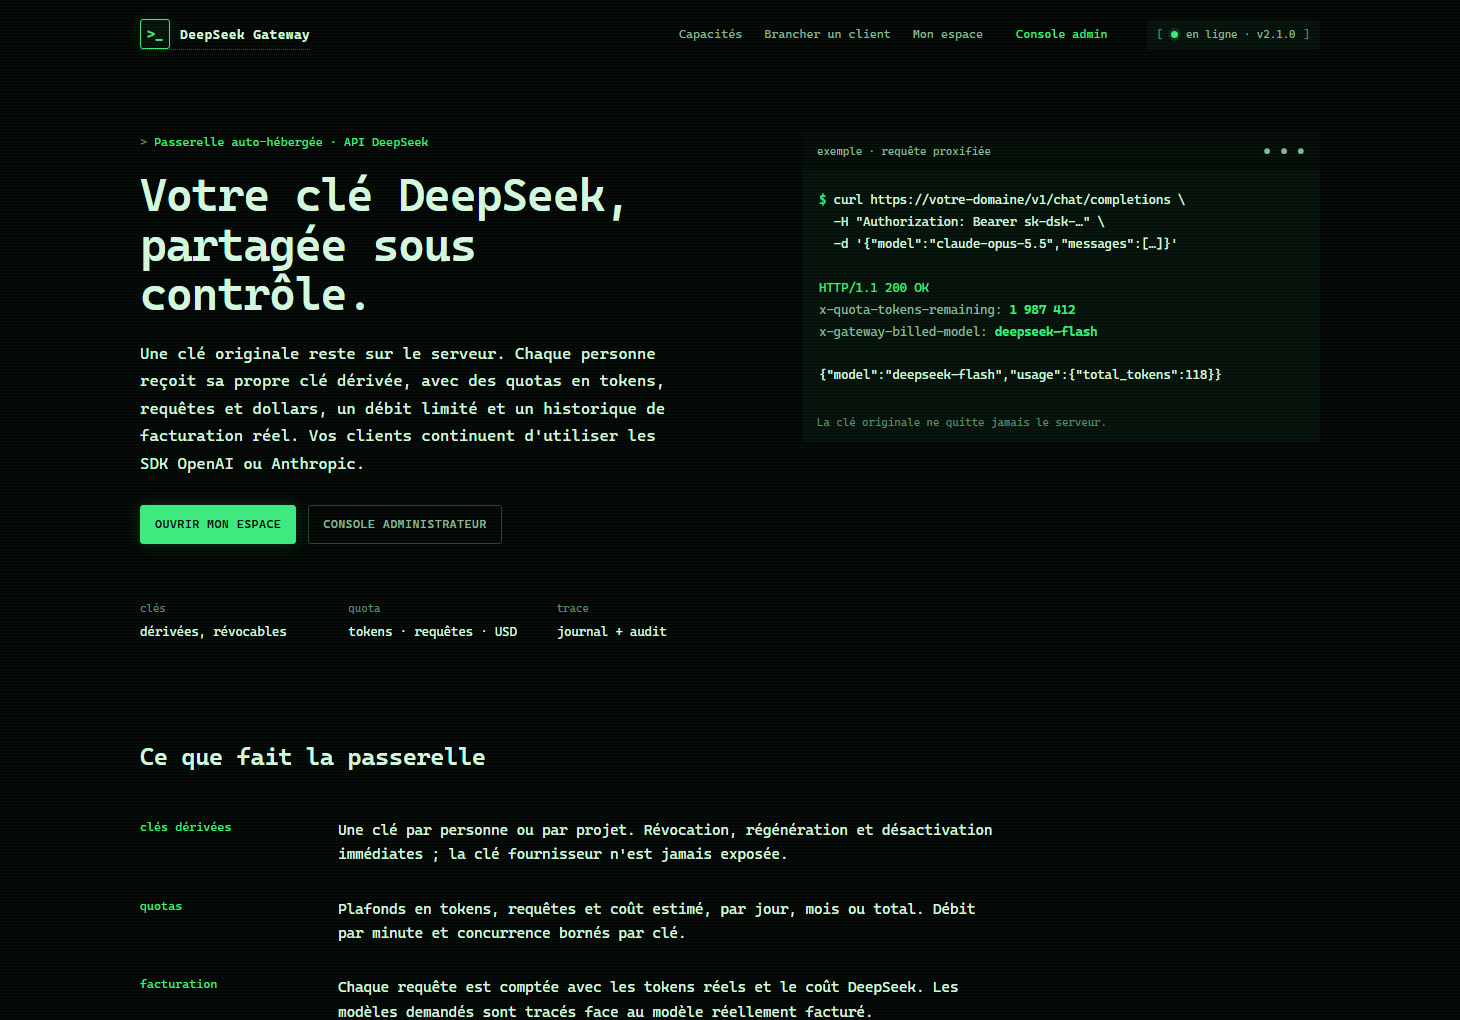
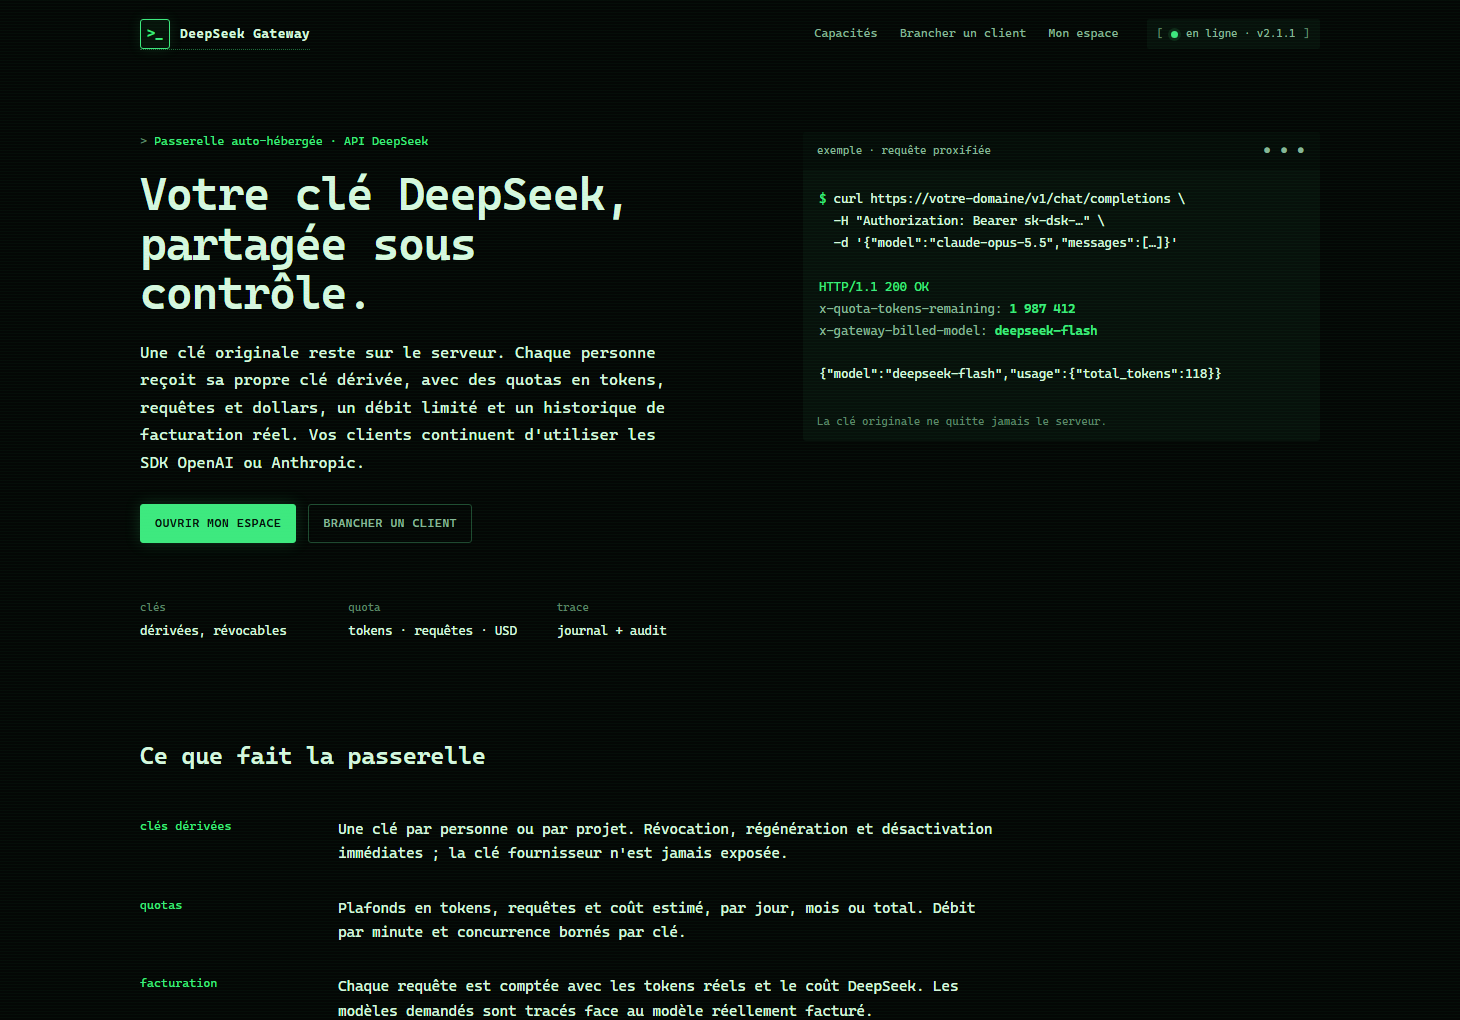
fix(mobile): navigation et cartes compactes, ordre portail; console admin retiree des pages publiques

diff --git a/public/styles.css b/public/styles.css
@@ -731,25 +731,46 @@ textarea { min-height: 120px; resize: vertical; font-family: var(--mono); font-s
     position: static;
     height: auto;
     flex-direction: row;
+    flex-wrap: wrap;
     align-items: center;
-    gap: 14px;
+    gap: 10px 14px;
     padding: 12px 16px;
-    overflow-x: auto;
+    overflow: visible;
     border-right: none;
     border-bottom: 1px solid var(--border);
   }
   .brand { flex: none; }
   .brand-sub { display: none; }
-  .nav { flex-direction: row; flex: none; }
-  .nav-item { padding: 8px 11px; white-space: nowrap; }
+  .nav {
+    order: 3;
+    flex: 1 1 100%;
+    flex-direction: row;
+    flex-wrap: wrap;
+    gap: 6px;
+  }
+  .nav-item { width: auto; padding: 6px 8px; font-size: 10.5px; white-space: nowrap; }
   .nav-icon { display: none; }
-  .sidebar-foot { margin: 0 0 0 auto; flex-direction: row; padding: 0; }
+  .sidebar-foot { margin: 0 0 0 auto; flex-direction: row; padding: 0; gap: 10px; }
+  .sidebar-link { display: none; }
   .provider-pill span.text { display: none; }
-  .main { padding: 20px 18px 60px; }
-  .topbar { flex-wrap: wrap; }
+  .main { padding: 16px 14px 48px; }
+  .topbar { flex-wrap: wrap; gap: 12px; }
   .topbar h1 { font-size: 17px; }
+  .topbar-actions { width: 100%; }
+  .topbar-actions .btn { flex: 1; justify-content: center; }
   .stat-value { font-size: 22px; }
   .panel-head { flex-wrap: wrap; }
+}
+
+@media (max-width: 640px) {
+  .stat-grid { grid-template-columns: repeat(2, minmax(0, 1fr)); gap: 10px; }
+  .stat-card { padding: 12px 12px; }
+  .stat-label { font-size: 9.5px; letter-spacing: 0.08em; }
+  .stat-value { font-size: 19px; margin-top: 6px; }
+  .stat-foot { font-size: 10.5px; margin-top: 4px; }
+  .panel { padding: 14px 14px; }
+  .panel-head h2 { font-size: 13px; }
+  .topbar-sub { font-size: 11.5px; }
 }
 
 /* ============================ site public ============================= */
@@ -872,9 +893,7 @@ textarea { min-height: 120px; resize: vertical; font-family: var(--mono); font-s
 .site-nav .site-nav-admin:focus-visible {
   border-color: var(--accent);
   background: var(--accent-soft);
-}
-
-.site-status {
+}.site-status {
   display: inline-flex;
   align-items: center;
   gap: 8px;
@@ -1473,24 +1492,14 @@ textarea { min-height: 120px; resize: vertical; font-family: var(--mono); font-s
     order: 3;
     width: 100%;
     margin-left: 0;
-    gap: 18px;
+    gap: 8px 18px;
     padding-top: 10px;
     border-top: 1px solid var(--line);
-    flex-wrap: nowrap;
-    overflow-x: auto;
-    scrollbar-width: none;
-  }
-  .site-nav::-webkit-scrollbar {
-    display: none;
+    flex-wrap: wrap;
+    overflow: visible;
   }
   .site-nav a {
     white-space: nowrap;
-  }
-  .site-nav a[href="#brancher"] {
-    display: none;
-  }
-  .site-nav {
-    justify-content: space-between;
   }
   .hero {
     padding: 36px 0 40px;
@@ -1527,7 +1536,63 @@ textarea { min-height: 120px; resize: vertical; font-family: var(--mono); font-s
   }
   .hero-facts {
     grid-template-columns: minmax(0, 1fr);
+    gap: 8px;
+  }
+  .hero-facts > div {
+    display: flex;
+    align-items: baseline;
     gap: 12px;
+  }
+  .hero-facts dt {
+    flex: none;
+    width: 58px;
+    margin: 0;
+  }
+  .hero-facts dd {
+    margin: 0;
+  }
+  .portal-preview {
+    display: none;
+  }
+  .portal-login-copy {
+    order: 0;
+  }
+  .portal-login-form {
+    order: 1;
+  }
+  .portal-login {
+    padding: 28px 0 40px;
+  }
+  .portal-head {
+    padding: 28px 0 18px;
+  }
+  .portal-actions {
+    width: 100%;
+  }
+  .portal-actions .btn {
+    flex: 1;
+    justify-content: center;
+  }
+  .portal-page .stat-grid {
+    gap: 10px;
+    margin-bottom: 16px;
+  }
+  .portal-page .stat-grid .quota-card:nth-child(3) {
+    grid-column: 1 / -1;
+  }
+  .portal-page .stat-card {
+    padding: 13px 14px;
+  }
+  .portal-page .quota-card .stat-label {
+    margin-bottom: 4px;
+  }
+  .portal-page .quota-card .stat-value {
+    font-size: 20px;
+    margin-bottom: 8px;
+  }
+  .portal-page .quota-card .small {
+    font-size: 11px;
+    margin-top: 6px;
   }
 }
 

diff --git a/public/portal.html b/public/portal.html
@@ -20,7 +20,6 @@
     </a>
     <nav class="site-nav" aria-label="Navigation principale">
       <a href="/">Accueil</a>
-      <a href="/admin">Console admin</a>
     </nav>
     <div class="site-status" id="site-status" aria-live="polite">
       <span class="dot" aria-hidden="true"></span>
@@ -35,7 +34,7 @@
         <p class="hero-kicker">Espace utilisateur</p>
         <h1 id="login-title">Mon espace</h1>
         <p>
-          Entrez la clé API fournie par l'administrateur pour consulter vos quotas,
+          Entrez la clé API fournie par le responsable de la passerelle pour consulter vos quotas,
           votre consommation et vos dernières requêtes.
         </p>
         <p class="small muted">
@@ -60,13 +59,12 @@
             <dd>URL de base et exemples prêts à copier pour OpenAI, Claude Code et Claude Desktop.</dd>
           </div>
         </dl>
-      </div>
-      <form id="login-form" class="panel portal-login-form" novalidate>
+      </div>      <form id="login-form" class="panel portal-login-form" novalidate>
         <div id="portal-error" class="login-error" role="alert" aria-live="assertive"></div>
         <label class="field full">
           <span>Clé API</span>
           <input type="password" id="portal-key" name="key" placeholder="sk-dsk-…" autocomplete="off" spellcheck="false" required>
-          <small>Fournie par l'administrateur, au format <code>sk-dsk-…</code>.</small>
+          <small>Fournie par le responsable de la passerelle, au format <code>sk-dsk-…</code>.</small>
         </label>
         <button type="submit" class="btn btn-primary btn-block">Ouvrir mon espace</button>
       </form>
@@ -81,7 +79,6 @@
           <p class="muted small" id="portal-sub"></p>
         </div>
         <div class="portal-actions">
-          <a class="btn btn-ghost btn-sm" href="/">Accueil</a>
           <button type="button" class="btn btn-ghost btn-sm" id="logout-btn">Se déconnecter</button>
         </div>
       </div>
@@ -114,7 +111,7 @@
         <div class="panel-head">
           <div>
             <h2>Utiliser l'API</h2>
-            <span class="hint">Remplacez <code>VOTRE_CLE</code> par la clé fournie par l'administrateur.</span>
+            <span class="hint">Remplacez <code>VOTRE_CLE</code> par la clé fournie par le responsable de la passerelle.</span>
           </div>
         </div>
         <div id="portal-usage"></div>
@@ -131,7 +128,6 @@
     <span>DeepSeek Gateway · passerelle auto-hébergée</span>
     <span class="site-footer-links">
       <a href="/">Accueil</a>
-      <a href="/admin">Console admin</a>
     </span>
   </footer>
 

diff --git a/public/landing.html b/public/landing.html
@@ -22,7 +22,6 @@
       <a href="#capacites">Capacités</a>
       <a href="#brancher">Brancher un client</a>
       <a href="/portal">Mon espace</a>
-      <a class="site-nav-admin" href="/admin">Console admin</a>
     </nav>
     <div class="site-status" id="site-status" aria-live="polite">
       <span class="dot" aria-hidden="true"></span>
@@ -42,7 +41,7 @@
         </p>
         <div class="hero-actions">
           <a class="btn btn-primary" href="/portal">Ouvrir mon espace</a>
-          <a class="btn btn-ghost" href="/admin">Console administrateur</a>
+          <a class="btn btn-ghost" href="#brancher">Brancher un client</a>
         </div>
         <dl class="hero-facts">
           <div><dt>clés</dt><dd>dérivées, révocables</dd></div>
@@ -104,7 +103,7 @@
       <ol class="site-steps">
         <li>
           <h3>Recevez une clé dérivée</h3>
-          <p>L'administrateur crée une clé <code>sk-dsk-…</code> avec vos limites. Elle s'affiche une seule fois à la création.</p>
+          <p>Le responsable de la passerelle crée une clé <code>sk-dsk-…</code> avec vos limites. Elle s'affiche une seule fois à la création.</p>
         </li>
         <li>
           <h3>Pointez votre client vers la passerelle</h3>
@@ -125,7 +124,7 @@ ANTHROPIC_AUTH_TOKEN=sk-dsk-…</pre>
 
     <section class="site-section site-cta" aria-labelledby="cta-title">
       <h2 id="cta-title">Prêt à brancher ?</h2>
-      <p>Les clés sont émises par l'administrateur. Votre espace affiche vos quotas, votre consommation et vos dernières requêtes.</p>
+      <p>Les clés sont émises par le responsable de la passerelle. Votre espace affiche vos quotas, votre consommation et vos dernières requêtes.</p>
       <a class="btn btn-primary" href="/portal">Ouvrir mon espace</a>
     </section>
   </main>
@@ -134,7 +133,7 @@ ANTHROPIC_AUTH_TOKEN=sk-dsk-…</pre>
     <span>DeepSeek Gateway · passerelle auto-hébergée</span>
     <span class="site-footer-links">
       <a href="/portal">Mon espace</a>
-      <a href="/admin">Console admin</a>
+      <a href="#brancher">Brancher un client</a>
     </span>
   </footer>
 

diff --git a/public/portal.js b/public/portal.js
@@ -76,7 +76,7 @@
       <div class="stat-label">${esc(label)}</div>
       <div class="stat-value">${formatter(used)} <span class="stat-sub">/ ${formatter(limit)}</span></div>
       <div class="quota-bar ${level}"><span style="width:${pct}%"></span></div>
-      <div class="small muted">${pct}% utilisé · restant : ${formatter(Math.max(0, quota.remaining ?? 0))}</div>
+      <div class="small muted">restant : ${formatter(Math.max(0, quota.remaining ?? 0))}</div>
     </article>`;
   }
 

diff --git a/src/config.js b/src/config.js
@@ -2,7 +2,7 @@ import fs from 'node:fs';
 import path from 'node:path';
 
 export const APP_ROOT = path.resolve(import.meta.dirname, '..');
-export const APP_VERSION = '2.1.0';
+export const APP_VERSION = '2.1.1';
 export const PANEL_COOKIE = 'dsk_admin';
 export const PROVIDER_DEFAULT_BASE_URL = 'https://api.deepseek.com';
 

diff --git a/docs/QUALITY-AUDIT.md b/docs/QUALITY-AUDIT.md
@@ -42,8 +42,11 @@ Scripts : `tools/public-quality.mjs`, `tools/theme-evidence.mjs`.
 - **Structure** : `lang="fr"`, un `h1` visible par état, landmarks `header`/`nav`/`main`/`footer`,
   skip link « Aller au contenu » sur les trois surfaces.
 - **Mouvement** : `prefers-reduced-motion` désactive scanlines et transitions (vérifié).
-- **Cibles tactiles** : 30 contrôles admin (min 27 px de haut) et 7 contrôles portail — 0 sous le seuil 24 px.
+- **Cibles tactiles** : 30 contrôles admin (min 27 px de haut) et 5 contrôles portail — 0 sous le seuil 24 px.
 - **Responsive** : aucun débordement horizontal en 390×844 sur les 3 surfaces et les 5 vues admin.
+- **Mobile** : navigation admin repliée sur deux lignes (plus de barre coupée), KPI admin en grille
+  2×2, cartes de quota portail compactes (2 + 1 pleine largeur), formulaire de connexion portail
+  affiché **après** son titre, footer aligné, menu public limité aux liens utiles.
 - Limite connue : les vues alternatives masquées (`display:none`) contiennent chacune leur `h1`
   d'état ; elles sont exclues de l'arbre d'accessibilité, donc un seul `h1` est perçu à la fois.
 
@@ -76,6 +79,8 @@ Scripts : `tools/public-quality.mjs`, `tools/theme-evidence.mjs`.
 | 6 | Page de connexion portail trop vide (grand blanc). | Low (design) | ✅ Corrigé : aperçu de ce que l'utilisateur verra + footer |
 | 7 | Assets non compressés (~105 Ko CSS/JS transférés). | Medium (perf) | ✅ Corrigé : gzip + cache 5 min → 3,5–17,4 Ko/page |
 | 8 | Pas de mesure qualité publiée pour les nouvelles surfaces. | — | ✅ Corrigé : ce rapport + `quality-report.json` + preuves de rendu |
+| 9 | Mobile : navigation admin coupée hors écran, KPI très hauts, ordre formulaire/titre du portail instable. | Medium (responsive) | ✅ Corrigé : nav admin sur 2 lignes, KPI 2×2, cartes portail compactes, titre avant formulaire, zéro débordement |
+| 10 | La console d'administration était annoncée en clair sur le site public et le portail (nav, CTA, footer). | Medium (exposition) | ✅ Corrigé : aucun lien ni mention admin sur les pages publiques ; accès uniquement par URL directe `/admin` (documenté dans le README, pas dans l'UI publique) |
 
 ## Risques résiduels et recommandations
 
@@ -94,7 +99,7 @@ Scripts : `tools/public-quality.mjs`, `tools/theme-evidence.mjs`.
 
 ```powershell
 node --test test                     # 68 tests (dont portail, gzip, sécurité)
-node tools/theme-evidence.mjs        # 21 captures + contrôles a11y/responsive -> docs/theme/
+node tools/theme-evidence.mjs        # 22 captures + contrôles a11y/responsive -> docs/theme/
 node tools/public-quality.mjs        # mesures HTTP + rendu -> docs/quality-report.json
 node "…/check-evidence.js" docs/theme/report.json   # gate frontend-design : OK
 ```
